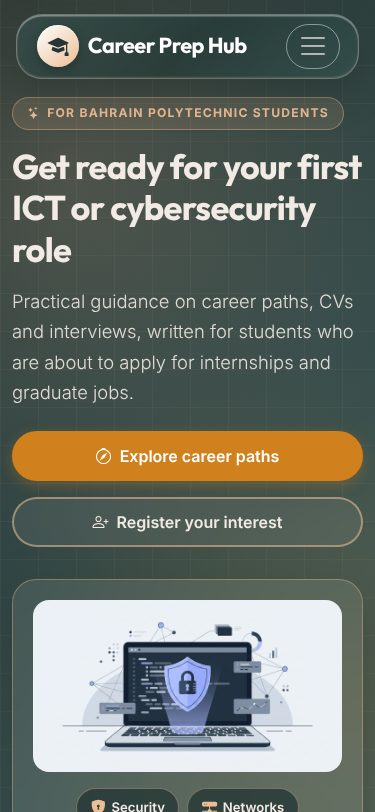
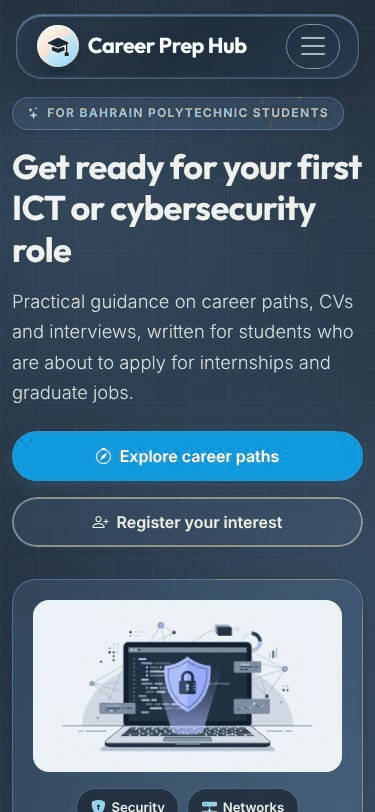
Update mockup screenshots to match Polytechnic Navy & Cyan theme

diff --git a/overview.html b/overview.html
@@ -379,11 +379,11 @@
       <div class="container">
         <span class="step-badge mb-2 d-inline-block">Section 07</span>
         <h2 id="ov-mockups-title" class="mb-2">7. High-Fidelity Mockups</h2>
-        <p class="mb-4">High-fidelity renders of the implemented website demonstrating layout, the Terrazzo colour scheme, the floating liquid-glass capsule navigation bar and responsive user interface design.</p>
+        <p class="mb-4">High-fidelity renders of the implemented website demonstrating layout, the Polytechnic Navy &amp; Cyan colour scheme, the floating liquid-glass capsule navigation bar and responsive user interface design.</p>
         <div class="row g-4 mb-4">
           <div class="col-md-6">
             <figure class="bento-panel mb-0">
-              <img src="images/mockup-home-desktop.jpg" class="img-fluid rounded-3 border" alt="High-fidelity desktop mockup of the Home page showing the floating glass capsule navbar, deep teal hero section, Terrazzo buttons and bento overview cards" loading="lazy">
+              <img src="images/mockup-home-desktop.jpg" class="img-fluid rounded-3 border" alt="High-fidelity desktop mockup of the Home page showing the floating glass capsule navbar, deep Polytechnic navy hero section, ocean-blue buttons and bento overview cards" loading="lazy">
               <figcaption class="field-hint mt-2"><strong>Desktop Layout (1440 px):</strong> Home page hero, floating liquid-glass navbar and 2-column Bento overview.</figcaption>
             </figure>
           </div>

diff --git a/reflection-ai-report.html b/reflection-ai-report.html
@@ -85,7 +85,7 @@
       <div class="container">
         <h2 id="refl-title" class="mb-3">Project reflection</h2>
         <p>Career Prep Hub gives ICT and Cybersecurity students at Bahrain Polytechnic practical guidance on career paths, CVs and interviews. We built seven pages with HTML5, CSS3, Bootstrap 5 and JavaScript, and we aimed for a site that real students could use, not only an assessment. The project showed us that a useful website starts with a clear problem: students find career advice that is generic and not written for Bahrain.</p>
-        <p>Our design changed several times. We moved from a Nordic Ocean palette to a bento layout and finally to the Terrazzo theme with a floating navigation bar. Keeping colours in CSS variables meant each change took minutes rather than hours.</p>
+        <p>Our design changed several times. We moved from a Nordic Ocean palette to a bento layout and finally to the Polytechnic Navy &amp; Cyan theme with a floating navigation bar. Keeping colours in CSS variables meant each change took minutes rather than hours.</p>
 
         <p>The registration form is our strongest feature. It validates in the browser, shows a message beside each field and accepts only digits in the mobile field. The CV and interview pages also include interactive tools, which make the site more useful than static text.</p>
 

diff --git a/planning-design.html b/planning-design.html
@@ -163,7 +163,7 @@
         <div class="row g-4 mb-4">
           <div class="col-md-6">
             <figure class="mb-0">
-              <img src="images/mockup-home-desktop.jpg" class="img-fluid rounded-4 border shadow-sm" alt="Desktop view of the home page: floating navigation bar, dark teal hero with the headline, an orange Explore career paths button and a laptop-and-shield illustration" loading="lazy">
+              <img src="images/mockup-home-desktop.jpg" class="img-fluid rounded-4 border shadow-sm" alt="Desktop view of the home page: floating liquid-glass navigation bar, deep Polytechnic navy hero with the headline, an ocean-blue Explore career paths button and a laptop-and-shield illustration" loading="lazy">
               <figcaption class="field-hint mt-2">Home page, desktop (1440 px wide).</figcaption>
             </figure>
           </div>
